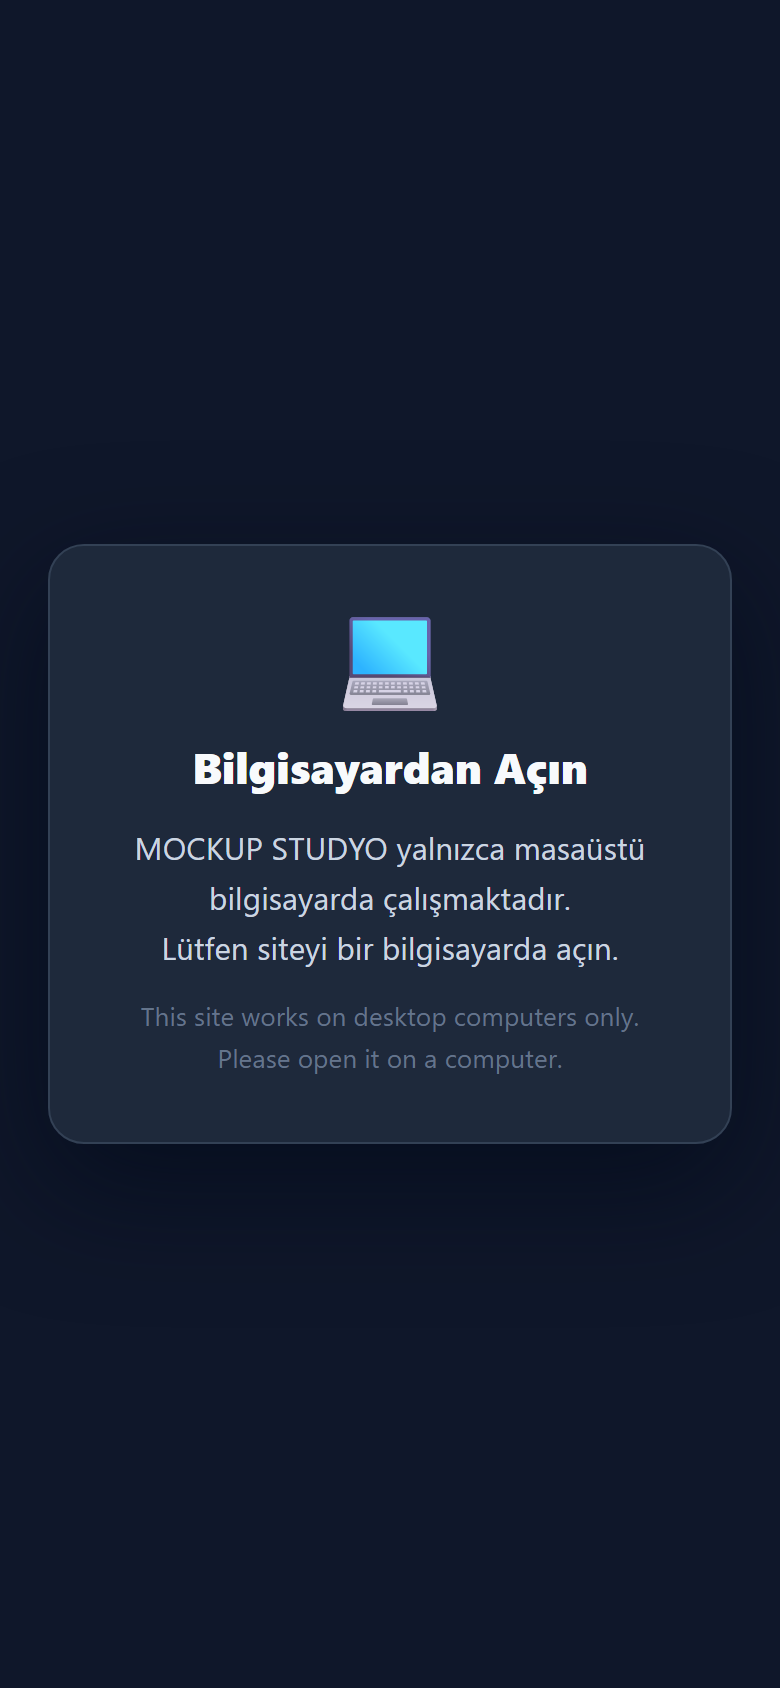
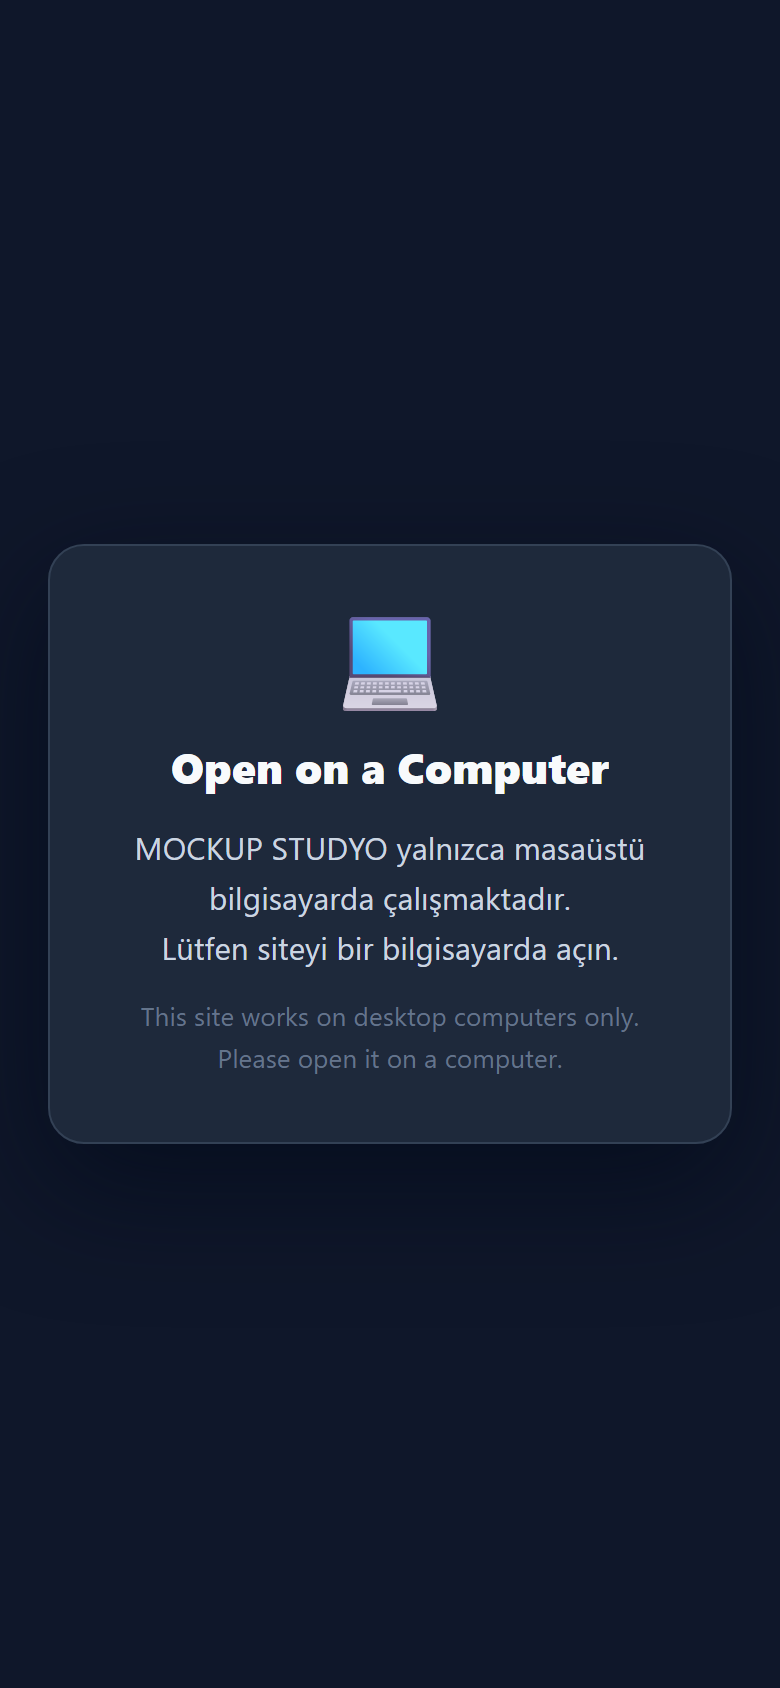
Site guncellemesi

Changed region(s): [[0.2154, 0.4313, 0.7692, 0.4929]]

diff --git a/index.html b/index.html
@@ -467,7 +467,7 @@
   <div id="mobile-blocker" class="mobile-blocker" aria-role="dialog" aria-label="Bilgisayardan açın">
     <div class="mobile-blocker-box">
       <div class="mobile-blocker-icon">💻</div>
-      <h2 class="mobile-blocker-title">Bilgisayardan Açın</h2>
+      <h2 class="mobile-blocker-title">Open on a Computer</h2>
       <p class="mobile-blocker-text">
         MOCKUP STUDYO yalnızca masaüstü bilgisayarda çalışmaktadır.<br>
         Lütfen siteyi bir bilgisayarda açın.
